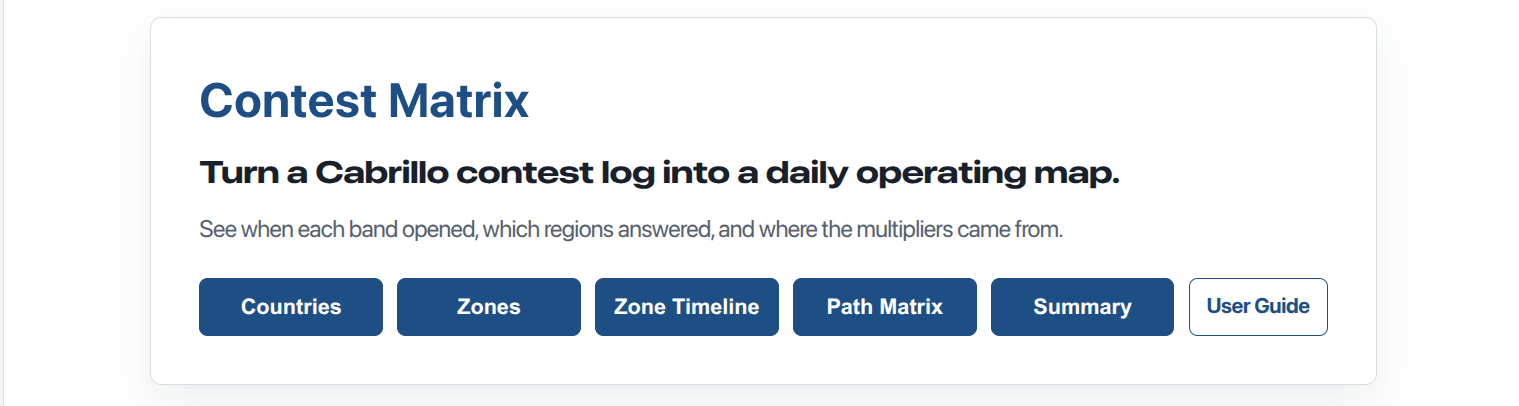
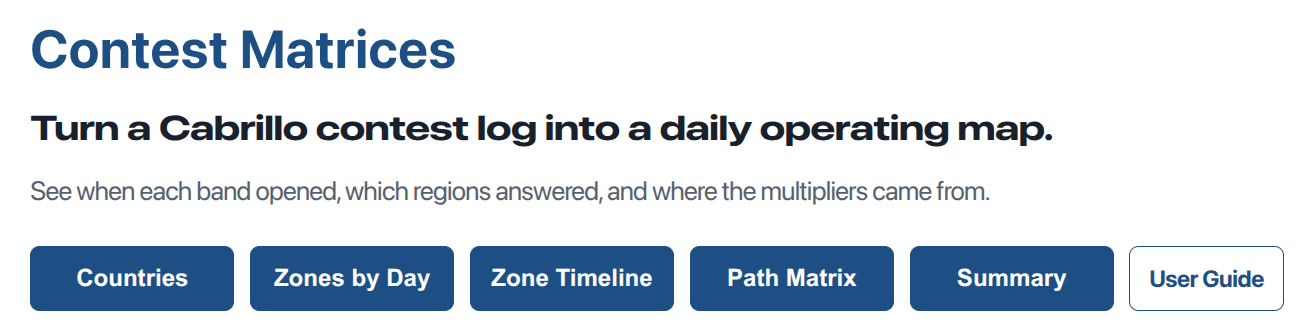
Rename guide branding to Contest Matrices

diff --git a/contest-userguide.html b/contest-userguide.html
@@ -3,10 +3,10 @@
 <head>
 <meta charset="utf-8">
 <meta name="viewport" content="width=device-width,initial-scale=1">
-<meta name="description" content="Contest Matrix User Guide: load Cabrillo contest logs, review countries and CQ zones, compare two callsigns, inspect zone timelines, path timing, and contest summaries.">
+<meta name="description" content="Contest Matrices User Guide: load Cabrillo contest logs, review countries and CQ zones, compare two callsigns, inspect zone timelines, path timing, and contest summaries.">
 <link rel="canonical" href="https://contest-matrices.net/contest-userguide">
 <link rel="icon" type="image/svg+xml" href="favicon.svg">
-<title>Contest Matrix User Guide</title>
+<title>Contest Matrices User Guide</title>
 <link rel="stylesheet" href="site.css">
 <style>
 .guide-page{max-width:1040px;margin:auto;padding:24px;color:#18212b}
@@ -37,15 +37,14 @@ table.guide-table{width:100%;border-collapse:collapse;margin:10px 0}
 </head>
 <body>
 <main class="guide-page">
-  <nav class="guide-nav" aria-label="Contest Matrix guide navigation">
-    <a href="contest-matrix.html">Open Contest Matrix</a>
+  <nav class="guide-nav" aria-label="Contest Matrices guide navigation">
+    <a href="contest-matrix.html">Open Contest Matrices</a>
     <a href="index.html">Home</a>
   </nav>
 
   <section class="guide-hero">
-    <h1>Contest Matrix User Guide</h1>
-    <p class="guide-lead">Turn a Cabrillo contest log into operating intelligence.</p>
-    <p class="guide-copy">Use Contest Matrix to see which countries and CQ zones were worked, when a selected zone was active, how paths opened over time, and how two callsigns compare side by side.</p>
+    <h1>Contest Matrices User Guide</h1>
+    <p class="guide-copy">Use Contest Matrices to see which countries and CQ zones were worked, when a selected zone was active, how paths opened over time, and how two callsigns compare side by side.</p>
   </section>
 
   <section class="guide-card">
@@ -59,7 +58,7 @@ table.guide-table{width:100%;border-collapse:collapse;margin:10px 0}
       <span>Summary</span>
     </div>
     <figure class="guide-shot">
-      <img src="Images/contest-guide-01-home.png" alt="Contest Matrix home page showing Countries, Zones by Day, Zone Timeline, Path Matrix, and Summary choices">
+      <img src="Images/contest-guide-01-home.png" alt="Contest Matrices home page showing Countries, Zones by Day, Zone Timeline, Path Matrix, and Summary choices">
     </figure>
     <p class="caption">The home page opens with outcome buttons. Start with the question you want answered.</p>
   </section>
@@ -68,7 +67,7 @@ table.guide-table{width:100%;border-collapse:collapse;margin:10px 0}
     <section class="guide-card">
       <h2>Quick Start: One Log</h2>
       <ol>
-        <li>Open <a href="contest-matrix.html">Contest Matrix</a>.</li>
+        <li>Open <a href="contest-matrix.html">Contest Matrices</a>.</li>
         <li>Choose <strong>Countries</strong>, <strong>Zones by Day</strong>, or <strong>Zone Timeline</strong>.</li>
         <li>Press <strong>Get Log A</strong> and choose a Cabrillo log file.</li>
         <li>The selected matrix appears immediately.</li>
@@ -90,10 +89,10 @@ table.guide-table{width:100%;border-collapse:collapse;margin:10px 0}
 
   <section class="guide-card">
     <h2>Practical Tip: Use Two Browser Windows</h2>
-    <p>Open Contest Matrix in one browser window and this User Guide in another. That lets you follow the guide without leaving your loaded log data.</p>
+    <p>Open Contest Matrices in one browser window and this User Guide in another. That lets you follow the guide without leaving your loaded log data.</p>
     <ul>
-      <li><strong>Browser 1:</strong> Contest Matrix app.</li>
-      <li><strong>Browser 2:</strong> Contest Matrix User Guide.</li>
+      <li><strong>Browser 1:</strong> Contest Matrices app.</li>
+      <li><strong>Browser 2:</strong> Contest Matrices User Guide.</li>
     </ul>
   </section>
 
@@ -199,20 +198,20 @@ table.guide-table{width:100%;border-collapse:collapse;margin:10px 0}
 
   <section class="guide-card">
     <h2>Cabrillo Logs And Privacy</h2>
-    <p>Contest Matrix reads Cabrillo log files directly in your browser. The app does not upload your log to a server. It reads the station callsign, contest name, QSO dates, frequency, time, worked callsign, and CQ zone from the file.</p>
+    <p>Contest Matrices reads Cabrillo log files directly in your browser. The app does not upload your log to a server. It reads the station callsign, contest name, QSO dates, frequency, time, worked callsign, and CQ zone from the file.</p>
     <p>Country matching uses CTY.DAT style prefix rules. It is useful for planning and review, but official contest results can differ after adjudication, duplicate checking, busted-call checking, and exchange checking.</p>
-    <p>The screenshots in this guide use example public logs such as <strong>K3WW_2025_MULTI-TWO_Final_12187708.log</strong> and <strong>W3LPL_2025_MULTI-TWO_Final_20470912.log</strong>. When a filename ends with the official score, Contest Matrix can show that score in the Summary view.</p>
+    <p>The screenshots in this guide use example public logs such as <strong>K3WW_2025_MULTI-TWO_Final_12187708.log</strong> and <strong>W3LPL_2025_MULTI-TWO_Final_20470912.log</strong>. When a filename ends with the official score, Contest Matrices can show that score in the Summary view.</p>
   </section>
 
   <section class="guide-card">
     <h2>Finding Public Cabrillo Logs</h2>
-    <p>Many major contests publish public Cabrillo logs after results are processed. Contest Matrix can read those logs when you save them as a plain text file.</p>
+    <p>Many major contests publish public Cabrillo logs after results are processed. Contest Matrices can read those logs when you save them as a plain text file.</p>
     <ol>
       <li>Open the contest public logs page in your browser.</li>
       <li>Find the callsign you want to study.</li>
       <li>Open the callsign log. It will usually appear as plain text in Cabrillo format.</li>
       <li>Save the page as a file with a simple name, for example <strong>vk1a-2025-cqww-cw.log</strong>.</li>
-      <li>Open Contest Matrix and press <strong>Get Log A</strong>.</li>
+      <li>Open Contest Matrices and press <strong>Get Log A</strong>.</li>
       <li>Select the saved <strong>.log</strong> or <strong>.txt</strong> file.</li>
     </ol>
     <p>If your browser saves the file as <strong>.txt</strong>, that is fine. A Cabrillo log is essentially a structured plain text file.</p>

diff --git a/contest-matrix.html b/contest-matrix.html
@@ -3,14 +3,14 @@
 <head>
 <meta charset="utf-8">
 <meta name="viewport" content="width=device-width,initial-scale=1">
-<meta name="description" content="Contest Matrix is a browser-only tool for viewing contest log activity by station, band, UTC time, and CQ zone or continent.">
+<meta name="description" content="Contest Matrices is a browser-only tool for viewing contest log activity by station, band, UTC time, and CQ zone or continent.">
 <link rel="canonical" href="https://contest-matrices.net/contest-matrix">
 <link rel="icon" type="image/svg+xml" href="favicon.svg">
-<meta property="og:title" content="Contest Matrix">
+<meta property="og:title" content="Contest Matrices">
 <meta property="og:description" content="Load a public Cabrillo contest log in the browser and view QSO activity by band, UTC time, and continent.">
 <meta property="og:type" content="website">
 <meta property="og:url" content="https://contest-matrices.net/contest-matrix">
-<title>Contest Matrix | Cabrillo Log Activity</title>
+<title>Contest Matrices | Cabrillo Log Activity</title>
 <style>
 :root{--blue:#1d4f84;--orange:#b45218;--green:#1f8a5b;--line:#d7dde4;--ink:#18212b;--muted:#56616e;--bg:#f3f5f7;--panel:#fff}
 *{box-sizing:border-box}
@@ -73,7 +73,7 @@ body.contest-setup-closed #contestMatrix>.country-summary-wrap{max-height:none;p
 <main>
   <header>
     <div>
-      <h1>Contest Matrix</h1>
+      <h1>Contest Matrices</h1>
       <p class="subtitle">Explore a contest log by band, time, region, zone, and country multiplier.</p>
     </div>
     <nav class="top-links" aria-label="Site navigation">
@@ -82,9 +82,9 @@ body.contest-setup-closed #contestMatrix>.country-summary-wrap{max-height:none;p
     </nav>
   </header>
 
-  <section id="contestHome" class="contest-home" aria-label="Contest Matrix home">
+  <section id="contestHome" class="contest-home" aria-label="Contest Matrices home">
     <div class="contest-home-card">
-      <h2>Contest Matrix</h2>
+      <h2>Contest Matrices</h2>
       <p class="contest-home-lead">Turn a Cabrillo contest log into a daily operating map.</p>
       <p class="contest-home-copy">See when each band opened, which regions answered, and where the multipliers came from.</p>
       <div class="contest-home-actions">
@@ -116,7 +116,7 @@ body.contest-setup-closed #contestMatrix>.country-summary-wrap{max-height:none;p
   </div>
 
   <section class="compact-config" aria-label="Compact contest matrix controls">
-    <div class="compact-actions" aria-label="Contest Matrix navigation">
+    <div class="compact-actions" aria-label="Contest Matrices navigation">
       <button class="secondary" type="button" data-contest-view="matrix">Path matrix</button>
       <button class="secondary" type="button" data-contest-view="country">Country matrix</button>
       <button id="contestGlobalToggle" class="secondary compact-global-button" type="button" aria-pressed="true">Hide Global</button>
